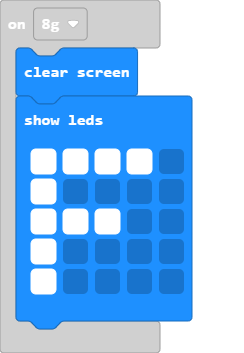
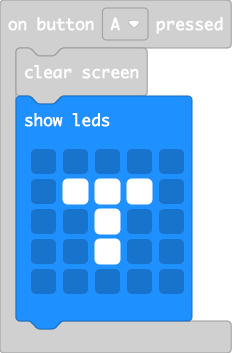
Update main.blocks, main.ts

diff --git a/main.ts b/main.ts
@@ -10,6 +10,13 @@ input.onGesture(Gesture.EightG, function () {
 })
 input.onButtonPressed(Button.A, function () {
     basic.clearScreen()
+    basic.showLeds(`
+        . . . . .
+        . # # # .
+        . . # . .
+        . . # . .
+        . . . . .
+        `)
 })
 let degrees = 0
 basic.showLeds(`
